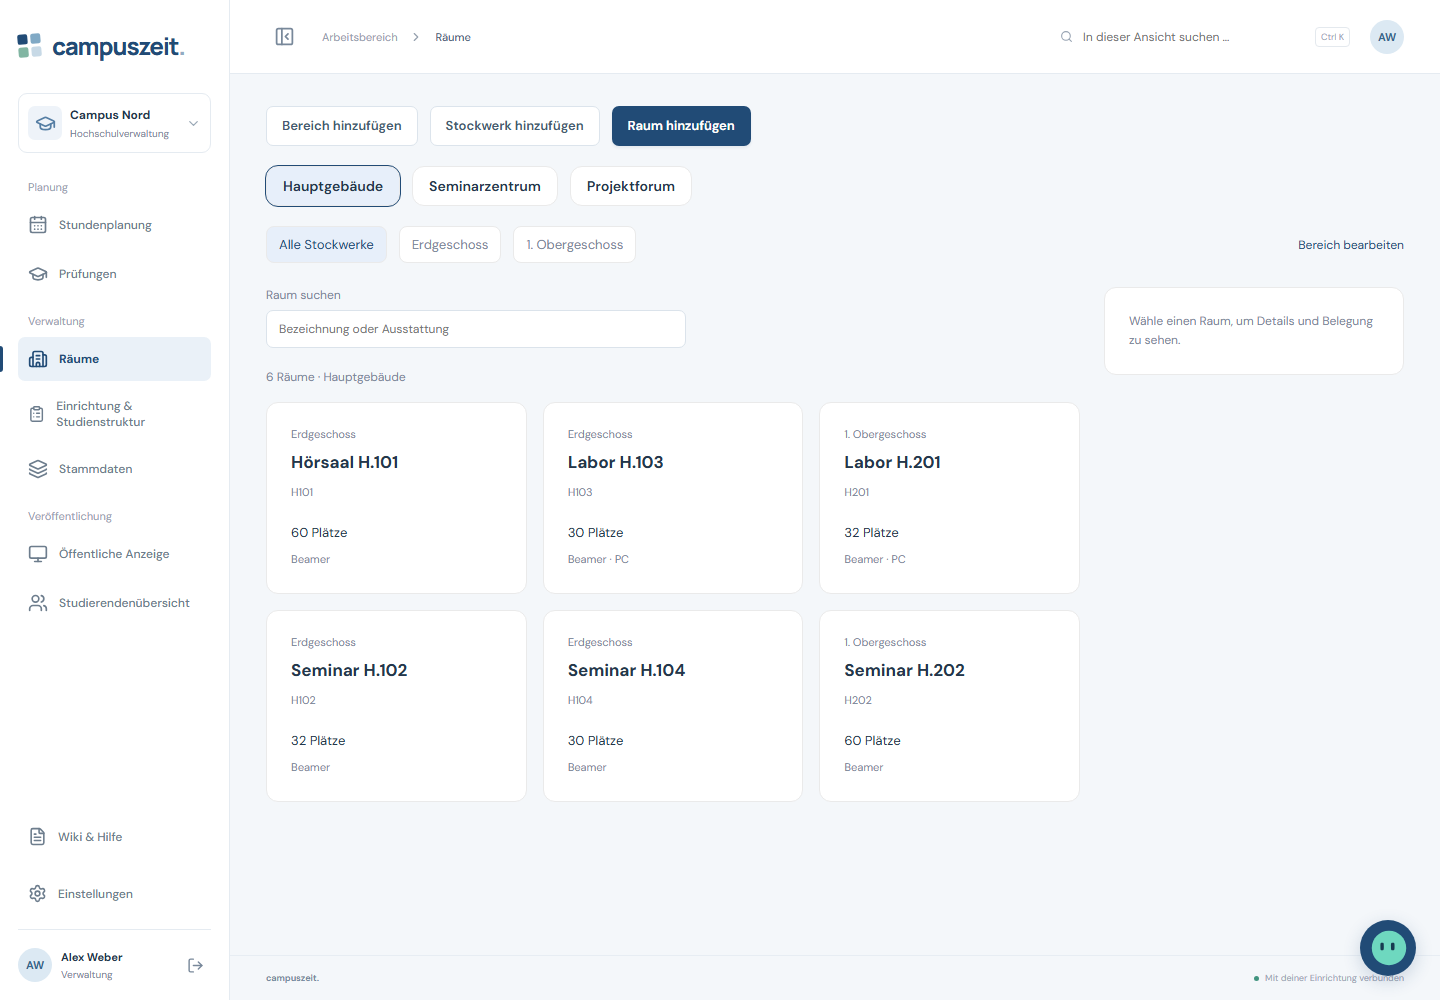
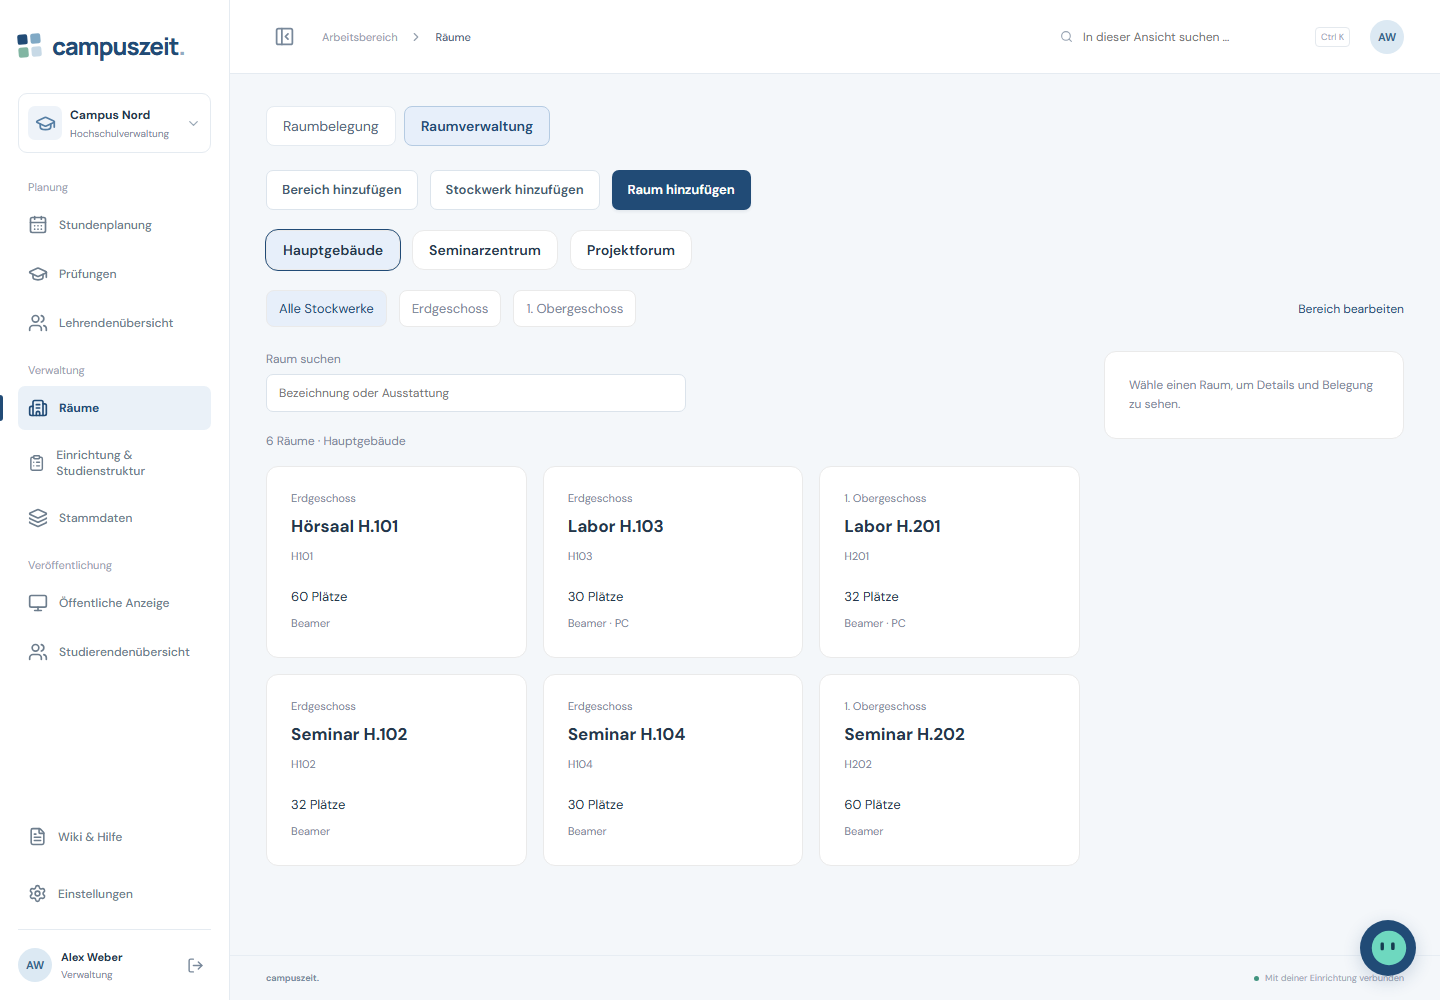
fix: align weekly resource events by time and open room occupancy first

diff --git a/tests/resource-overviews.ts b/tests/resource-overviews.ts
@@ -126,6 +126,17 @@ test("Lehrendenübersicht: Woche, Heute, Morgen, Kalender und Termindetails", as
   await expect(overview.locator(".resource-period-summary")).toContainText(
     "05. Okt",
   );
+  const weekRow = overview
+    .locator(".resource-timeline-row")
+    .filter({ hasText: "Testlehrende Lange Namen" });
+  await expect(weekRow.locator(".resource-event")).toHaveCount(4);
+  const weeklyTops = await weekRow
+    .locator('.resource-day-cell[aria-label*="09. Okt"] .resource-event')
+    .evaluateAll((elements) =>
+      elements.map((el) => (el as HTMLElement).style.top),
+    );
+  expect(weeklyTops[0]).not.toBe(weeklyTops[1]);
+  expect(weeklyTops[0]).toBe(weeklyTops[2]);
   await overview.getByRole("button", { name: "Heute", exact: true }).click();
   await expect(overview.locator(".resource-day-header")).toHaveCount(1);
   const teacherRow = overview
@@ -180,12 +191,70 @@ test("Lehrendenübersicht: Woche, Heute, Morgen, Kalender und Termindetails", as
   await expect(overview).toContainText("Keine Lehrenden gefunden.");
 });
 
+test("Anschlusstermine stehen auch in der Wochenansicht nebeneinander", async ({
+  page,
+}) => {
+  await fixture(page);
+  await page.evaluate(() => {
+    const key = "campustime-browser-demo-v1";
+    const state = JSON.parse(localStorage.getItem(key)!);
+    for (const [id, start, end] of [
+      [9001, 8, 11],
+      [9002, 11, 14],
+      [9004, 14, 17],
+    ]) {
+      const session = state.data.sessions.find((row: any) => row.id === id);
+      session.start = `2026-10-09T${String(start).padStart(2, "0")}:00:00+02:00`;
+      session.end = `2026-10-09T${String(end).padStart(2, "0")}:00:00+02:00`;
+    }
+    localStorage.setItem(key, JSON.stringify(state));
+  });
+  await page.reload();
+  await page
+    .getByRole("button", { name: "Lehrendenübersicht", exact: true })
+    .click();
+  const overview = page.getByRole("region", {
+    name: "Lehrendenübersicht",
+    exact: true,
+  });
+  const row = overview
+    .locator(".resource-timeline-row")
+    .filter({ hasText: "Testlehrende Lange Namen" });
+  for (const mode of ["week", "day"]) {
+    await overview.getByLabel("Ansicht", { exact: true }).selectOption(mode);
+    const events = row.locator(
+      '.resource-day-cell[aria-label*="09. Okt"] .resource-event',
+    );
+    await expect(events).toHaveCount(3);
+    const boxes = await events.evaluateAll((elements) =>
+      elements.map((element) => {
+        const { x, y, width, height } = element.getBoundingClientRect();
+        return { x, y, width, height };
+      }),
+    );
+    for (let index = 1; index < boxes.length; index++) {
+      expect(boxes[index].y).toBeCloseTo(boxes[0].y, 0);
+      expect(boxes[index].x).toBeGreaterThan(boxes[index - 1].x);
+      expect(
+        Math.abs(
+          boxes[index].x - (boxes[index - 1].x + boxes[index - 1].width),
+        ),
+      ).toBeLessThan(5);
+    }
+    expect(boxes[0].width).toBeGreaterThanOrEqual(180);
+    expect(await row.evaluate((el) => el.clientHeight)).toBeLessThan(120);
+    await expect(overview.locator(".resource-hours").first()).toBeVisible();
+  }
+});
+
 test("Raumbelegung bleibt eine Tagesansicht und zeigt Blockierungen und Freigaben", async ({
   page,
 }) => {
   await fixture(page);
   await page.getByRole("button", { name: "Räume", exact: true }).click();
-  await page.getByRole("button", { name: "Raumbelegung", exact: true }).click();
+  await expect(
+    page.getByRole("button", { name: "Raumbelegung", exact: true }),
+  ).toHaveAttribute("aria-pressed", "true");
   const overview = page.getByRole("region", {
     name: "Raumbelegung",
     exact: true,
@@ -242,6 +311,15 @@ test("Raumbelegung bleibt eine Tagesansicht und zeigt Blockierungen und Freigabe
   );
   await overview.getByRole("button", { name: "Heute", exact: true }).click();
   await expect(overview.locator(".resource-event")).toHaveCount(4);
+  await page
+    .getByRole("button", { name: "Raumverwaltung", exact: true })
+    .click();
+  await expect(page.locator(".room-tile").first()).toBeVisible();
+  await page
+    .getByRole("button", { name: "Lehrendenübersicht", exact: true })
+    .click();
+  await page.getByRole("button", { name: "Räume", exact: true }).click();
+  await expect(overview).toBeVisible();
 });
 
 test("Belegung: Kalender per Tastatur und schmale Ansichten ohne Seitenüberlauf", async ({
@@ -286,20 +364,23 @@ test("Belegung: Kalender per Tastatur und schmale Ansichten ohne Seitenüberlauf
   await expect(
     page.getByRole("dialog", { name: "Kalender", exact: true }),
   ).toHaveCount(0);
-  for (const width of [390, 768, 1280, 1440, 1920, 720]) {
-    await page.setViewportSize({ width, height: 1000 });
-    await expect(overview).toBeVisible();
-    expect(
-      await page.evaluate(
-        () => document.documentElement.scrollWidth <= innerWidth,
-      ),
-    ).toBe(true);
-    if (width < 1000) {
+  for (const mode of ["week", "day"]) {
+    await overview.getByLabel("Ansicht", { exact: true }).selectOption(mode);
+    for (const width of [390, 768, 1280, 1440, 1920, 720]) {
+      await page.setViewportSize({ width, height: 1000 });
+      await expect(overview).toBeVisible();
       expect(
-        await overview
-          .locator(".resource-timeline-scroll")
-          .evaluate((el) => el.scrollWidth > el.clientWidth),
+        await page.evaluate(
+          () => document.documentElement.scrollWidth <= innerWidth,
+        ),
       ).toBe(true);
+      if (mode === "week" || width < 1000) {
+        expect(
+          await overview
+            .locator(".resource-timeline-scroll")
+            .evaluate((el) => el.scrollWidth > el.clientWidth),
+        ).toBe(true);
+      }
     }
   }
 });

diff --git a/src/ResourceOverview.tsx b/src/ResourceOverview.tsx
@@ -148,10 +148,12 @@ export default function ResourceOverview({
   const axes = Object.fromEntries(
     days.map((day) => [day, dayAxis(day, hours, zone)]),
   );
+  const axisWidth = Math.max(
+    800,
+    ...days.map((day) => (axes[day].duration / 60) * 80),
+  );
   const dayWidth =
-    mode === "week"
-      ? 240
-      : Math.max(availableWidth, 800, (hours.end - hours.start) * 80);
+    mode === "week" ? axisWidth : Math.max(availableWidth, axisWidth);
   const timelineWidth = days.length * dayWidth;
   const today = now.toISODate()!;
   const preset = (offset: number, nextMode: "week" | "day") => {
@@ -192,7 +194,7 @@ export default function ResourceOverview({
     if (focusedRange.current === key) return;
     focusedRange.current = key;
     scroller.current.scrollLeft =
-      mode === "week" ? Math.max(0, days.indexOf(date) - 1) * dayWidth : 0;
+      mode === "week" ? Math.max(0, days.indexOf(date)) * dayWidth : 0;
   }, [date, mode, source, !!currentResult, days, dayWidth]);
   return (
     <section
@@ -261,6 +263,7 @@ export default function ResourceOverview({
             <label className="resource-mode-label">
               Ansicht
               <select
+                aria-label="Ansicht"
                 value={mode}
                 onChange={(event) =>
                   setMode(event.target.value as "week" | "day")
@@ -383,7 +386,7 @@ export default function ResourceOverview({
                       style={{ width: dayWidth }}
                     >
                       <strong>{fmt(day, zone, "ccc, dd. MMM")}</strong>
-                      <div className="resource-hours" hidden={mode === "week"}>
+                      <div className="resource-hours">
                         {axes[day].ticks.map((time, index) => (
                           <span
                             key={index}
@@ -401,15 +404,6 @@ export default function ResourceOverview({
                 </div>
               </div>
               {displayed.map(({ resource, segments }) => {
-                if (mode === "week") {
-                  const counts: Record<string, number> = {};
-                  segments = segments.map((segment) => ({
-                    ...segment,
-                    lane:
-                      (counts[segment.day] = (counts[segment.day] || 0) + 1) -
-                      1,
-                  }));
-                }
                 const height = Math.max(
                   84,
                   (Math.max(-1, ...segments.map((segment) => segment.lane)) +
@@ -451,14 +445,8 @@ export default function ResourceOverview({
                                 key={`${segment.row.id}:${segment.row.start}:${index}`}
                                 className={`resource-event ${segment.row.status} ${segment.row.kind === "exam" ? "exam" : ""}`}
                                 style={{
-                                  left:
-                                    mode === "week"
-                                      ? 8
-                                      : `${((segment.start - axes[day].start) / axes[day].duration) * 100}%`,
-                                  width:
-                                    mode === "week"
-                                      ? dayWidth - 16
-                                      : `${((segment.end - segment.start) / axes[day].duration) * 100}%`,
+                                  left: `${((segment.start - axes[day].start) / axes[day].duration) * 100}%`,
+                                  width: `calc(${((segment.end - segment.start) / axes[day].duration) * 100}% - 2px)`,
                                   top:
                                     8 +
                                     segment.lane * (mode === "week" ? 88 : 68),
@@ -480,8 +468,7 @@ export default function ResourceOverview({
                                 </small>
                               </button>
                             ))}
-                          {mode === "day" &&
-                            day === today &&
+                          {day === today &&
                             now.hour * 60 + now.minute >= hours.start * 60 &&
                             now.hour * 60 + now.minute < hours.end * 60 && (
                               <div

diff --git a/tests/demo.spec.ts b/tests/demo.spec.ts
@@ -123,6 +123,9 @@ test("Einrichtungsmenü wechselt Raumbereiche und legt neue Bereiche direkt an",
     .getByRole("button", { name: "Seminarzentrum", exact: true })
     .click();
   await expect(page.locator(".breadcrumb strong")).toHaveText("Räume");
+  await page
+    .getByRole("button", { name: "Raumverwaltung", exact: true })
+    .click();
   await expect(
     areas.getByRole("button", { name: "Seminarzentrum", exact: true }),
   ).toHaveAttribute("aria-pressed", "true");
@@ -140,6 +143,9 @@ test("Einrichtungsmenü wechselt Raumbereiche und legt neue Bereiche direkt an",
   ).toHaveAttribute("aria-pressed", "true");
   await options
     .getByRole("button", { name: "Hauptgebäude", exact: true })
+    .click();
+  await page
+    .getByRole("button", { name: "Raumverwaltung", exact: true })
     .click();
   await expect(page.locator(".room-result-count")).toContainText(
     "Hauptgebäude",
@@ -186,6 +192,9 @@ test("Einrichtungsmenü wechselt Raumbereiche und legt neue Bereiche direkt an",
   await card.click();
   await options
     .getByRole("button", { name: "Seminarzentrum", exact: true })
+    .click();
+  await page
+    .getByRole("button", { name: "Raumverwaltung", exact: true })
     .click();
   await expect(page.locator(".room-result-count")).toContainText(
     "Seminarzentrum",
@@ -509,6 +518,9 @@ test("Demo funktioniert ohne Backend, Raumänderungen bleiben im Browser", async
     .getByRole("button", { name: "Räume", exact: true })
     .click();
   await page
+    .getByRole("button", { name: "Raumverwaltung", exact: true })
+    .click();
+  await page
     .getByRole("button", { name: "Hörsaal H.101", exact: true })
     .click();
   await expect(page.getByText("Belegung laden …")).toHaveCount(0);
@@ -527,6 +539,9 @@ test("Demo funktioniert ohne Backend, Raumänderungen bleiben im Browser", async
   await page
     .getByRole("navigation")
     .getByRole("button", { name: "Räume", exact: true })
+    .click();
+  await page
+    .getByRole("button", { name: "Raumverwaltung", exact: true })
     .click();
   await expect(
     page.getByRole("button", { name: "Hörsaal H.101", exact: true }),
@@ -567,6 +582,9 @@ test("Demo funktioniert ohne Backend, Raumänderungen bleiben im Browser", async
   await page
     .getByRole("navigation")
     .getByRole("button", { name: "Räume", exact: true })
+    .click();
+  await page
+    .getByRole("button", { name: "Raumverwaltung", exact: true })
     .click();
   await expect(
     page.getByRole("button", { name: "Hörsaal H.101", exact: true }),

diff --git a/src/RoomOverview.tsx b/src/RoomOverview.tsx
@@ -24,7 +24,7 @@ export default function RoomOverview({
   onContextChange,
   revision,
 }: Props) {
-  const [view, setView] = useState("catalog");
+  const [view, setView] = useState("occupancy");
   const [floorId, setFloorId] = useState<number | null>(null);
   const [roomId, setRoomId] = useState<number | null>(null);
   const [occupancy, setOccupancy] = useState<Row[]>([]);
@@ -97,16 +97,16 @@ export default function RoomOverview({
     <section className="room-overview" aria-label="Raumverwaltung">
       <div className="room-view-switch" role="group" aria-label="Raumansicht">
         <button
-          aria-pressed={view === "catalog"}
-          onClick={() => setView("catalog")}
-        >
-          Raumverwaltung
-        </button>
-        <button
           aria-pressed={view === "occupancy"}
           onClick={() => setView("occupancy")}
         >
           Raumbelegung
+        </button>
+        <button
+          aria-pressed={view === "catalog"}
+          onClick={() => setView("catalog")}
+        >
+          Raumverwaltung
         </button>
       </div>
       <div className="room-header">

diff --git a/src/resource-overview.css b/src/resource-overview.css
@@ -327,12 +327,6 @@
 .resource-event:hover {
   filter: brightness(0.97);
 }
-.resource-week .resource-timeline-heading {
-  height: 48px;
-}
-.resource-week .resource-day-cell {
-  background-image: none;
-}
 .resource-week .resource-event {
   height: 80px;
 }
@@ -459,7 +453,9 @@
   gap: 8px;
   margin-bottom: 24px;
 }
-.room-overview .room-actions[hidden] { display: none; }
+.room-overview .room-actions[hidden] {
+  display: none;
+}
 .room-view-switch button {
   min-height: 40px;
   border: 1px solid var(--line);

diff --git a/shared/wiki/articles/rooms.md b/shared/wiki/articles/rooms.md
@@ -5,7 +5,7 @@ Unter Räume legst du zuerst einen Bereich an, dann Stockwerke und darin Räume.
 ## Voraussetzung
 Du brauchst einen Plan der vorhandenen Raumbezeichnungen, Kapazitäten und Ausstattung. Im Tool werden Bereiche, Stockwerke und Räume verwaltet.
 ## Bereich, Stockwerk und Raum anlegen
-1. Öffne **Räume** und wähle **Bereich hinzufügen**. Erfasse eine eindeutige Kennung und einen verständlichen Namen.
+1. Öffne **Räume → Raumverwaltung** und wähle **Bereich hinzufügen**. Erfasse eine eindeutige Kennung und einen verständlichen Namen.
 2. Wähle den Bereich. Öffne **Stockwerk hinzufügen** und erfasse Bezeichnung sowie Stockwerknummer, etwa 0 für EG.
 3. Wähle **Raum hinzufügen**. Ordne den Raum seinem Stockwerk zu und übernimm die tatsächliche Raumbezeichnung.
 4. Trage die Kapazität ein und ergänze Ausstattung wie Beamer oder PC. Speichere.
@@ -13,7 +13,7 @@ Du brauchst einen Plan der vorhandenen Raumbezeichnungen, Kapazitäten und Ausst
 ## Änderungen und Belegung
 Bereich und Stockwerk lassen sich über ihre Bearbeiten-Aktionen ändern. Die Raumdetails erlauben die Bearbeitung des Raums. Lege Sperrzeiten unter [Raumblockierungen](/wiki/blocks) an.
 ## Tagesübersicht der Raumbelegung
-1. Öffne **Räume → Raumbelegung**. Die Übersicht startet mit heute und zeigt immer genau einen Tag. Räume stehen links, die Uhrzeiten laufen horizontal.
+1. Öffne **Räume**. Zuerst erscheint die **Raumbelegung** für heute mit genau einem Tag. Räume stehen links, die Uhrzeiten laufen horizontal. Über **Raumverwaltung** wechselst du zu den Raumkacheln und den Aktionen zum Anlegen und Bearbeiten.
 2. Wähle den Raumbereich und bei Bedarf ein Stockwerk. Suche zusätzlich nach einem Raum oder zeige über **Nur mit Belegung** nur belegte Räume an.
 3. Wähle ein anderes Datum im kleinen Kalender oder gehe mit den Pfeilen einen Tag zurück oder vor. **Heute** bringt dich zum aktuellen Tag zurück. Es gibt hier keinen Wochen- oder Morgenfilter.
 4. **Aktuelle Planung** enthält auch Entwürfe. **Nur freigegebene Pläne** zeigt veröffentlichte Termine. Raumblockierungen, etwa für Bauarbeiten, erscheinen in beiden Ansichten schraffiert mit der Kennzeichnung **Blockiert**.

diff --git a/shared/wiki/articles/teachers.md b/shared/wiki/articles/teachers.md
@@ -15,7 +15,7 @@ Gemeinsam ausgewählte Lehrende werden gemeinsam eingeplant. Lehrendenteams je T
 ## Personen und Gruppen
 Unter **Stammdaten → Personen** verwaltest du weitere Personen. Ordne Lernende den richtigen Gruppen zu. Personenkennungen müssen stabil und innerhalb der Einrichtung eindeutig sein.
 ## Lehrendenübersicht
-1. Öffne **Planung → Lehrendenübersicht**. Lehrende stehen links, die Tage der aktuellen Woche laufen nebeneinander. Die Namen und Tagesüberschriften bleiben beim Scrollen sichtbar.
+1. Öffne **Planung → Lehrendenübersicht**. Lehrende stehen links, die Tage der aktuellen Woche laufen nebeneinander. Jeder Tag hat eine horizontale Uhrzeitachse: Aufeinanderfolgende Termine stehen in derselben Zeile hintereinander, nur zeitlich überlappende Termine stehen in getrennten Zeilen. Die Namen und Tagesüberschriften bleiben beim Scrollen sichtbar.
 2. Wähle **Heute**, **Morgen** oder **Diese Woche**. Über **Ansicht** kannst du auch einen beliebigen Tag als Woche ansehen. Die Pfeile wechseln entsprechend einen Tag oder eine Woche.
 3. Öffne den kleinen Kalender über die Datumsschaltfläche und wähle ein Datum. In der Wochenansicht wird dessen Woche angezeigt, in der Tagesansicht nur dieser Tag. Mit den Pfeiltasten wechselst du im Kalender die Tage; Enter wählt aus, Escape schließt.
 4. Suche nach einer Lehrperson oder aktiviere **Nur mit Belegung**. Die Übersicht berücksichtigt zugewiesene Lehrende aus allen Stundenplänen, auch gemeinsame Veranstaltungen und Prüfungsaufsichten.

diff --git a/docs/WIKI.md b/docs/WIKI.md
@@ -38,7 +38,7 @@ node scripts/wiki-test-vite.mjs
 
 Anschließend `npm run wiki:screenshots`. Danach die beiden Server beenden. Das Skript ist absichtlich auf den separaten Port 5186 festgelegt.
 
-Die zwei Belegungsübersichten werden mit `node scripts/resource-screenshots.mjs` auf derselben temporären Einrichtung aufgenommen. Das Skript speichert `teachers-timeline.png` und `rooms-timeline.png` sowie mobile Prüfbilder unter `.playwright/resource-previews/`. Es nutzt ausschließlich Port 5186. Die neuen Ansichten werden zusätzlich in `tests/resource-overviews.ts` und mit dem authentifizierten Backend in `tests/wiki.spec.ts` geprüft.
+Die zwei Belegungsübersichten werden mit `node scripts/resource-screenshots.mjs` auf derselben temporären Einrichtung aufgenommen. Das Skript speichert `teachers-timeline.png` und `rooms-timeline.png`, aktualisiert die drei Bilder der Raumverwaltung (`rooms.png`, `start-02.png`, `definitions.png`) und legt mobile Prüfbilder unter `.playwright/resource-previews/` ab. Es nutzt ausschließlich Port 5186. Die neuen Ansichten werden zusätzlich in `tests/resource-overviews.ts` und mit dem authentifizierten Backend in `tests/wiki.spec.ts` geprüft.
 
 Prüfungen:
 

diff --git a/shared/wiki/articles/setup.md b/shared/wiki/articles/setup.md
@@ -28,7 +28,7 @@ Kontrolliere Name, Einrichtungsart, Zeitzone und die Länge einer Unterrichtsein
 
 ## 2. Räume anlegen
 
-**Öffnen:** Räume.
+**Öffnen:** Räume → Raumverwaltung.
 
 Wähle Bereich hinzufügen und erfasse beispielsweise Standort Nord. Lege über Stockwerk hinzufügen das Erdgeschoss und weitere Etagen an. Öffne Raum hinzufügen und erfasse vorhandene Bezeichnung, Stockwerk, Kapazität und Ausstattung.
 
